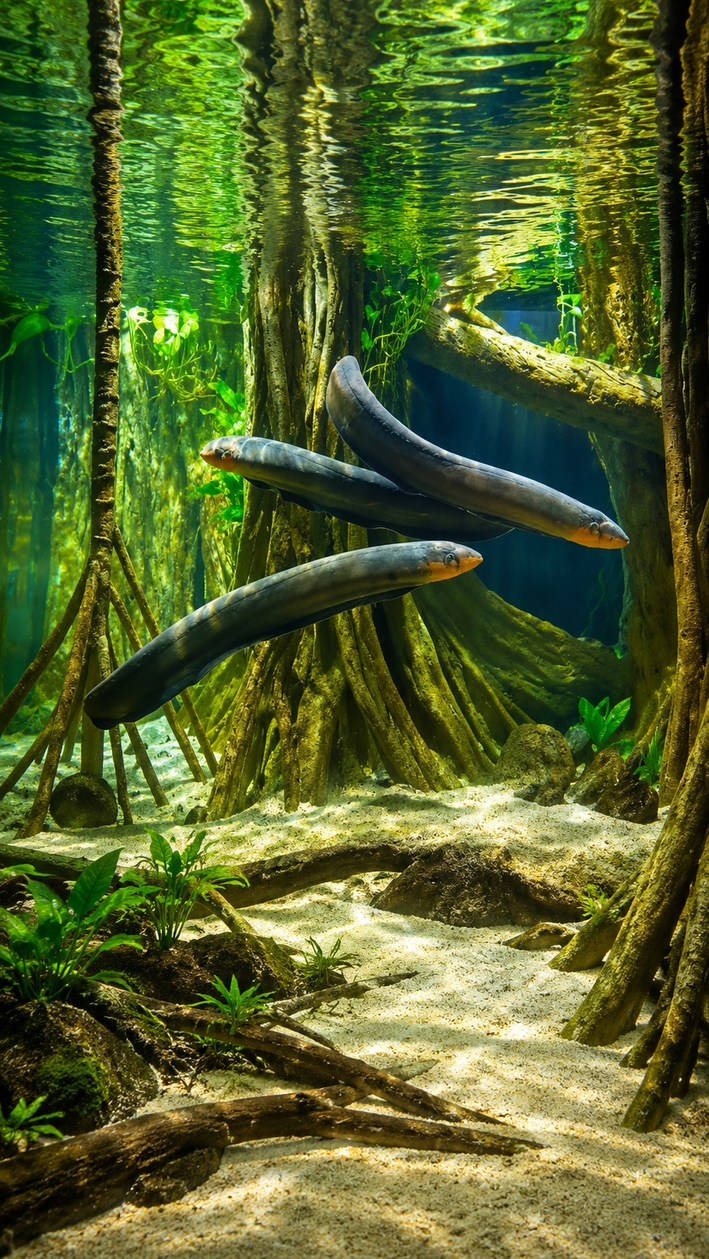
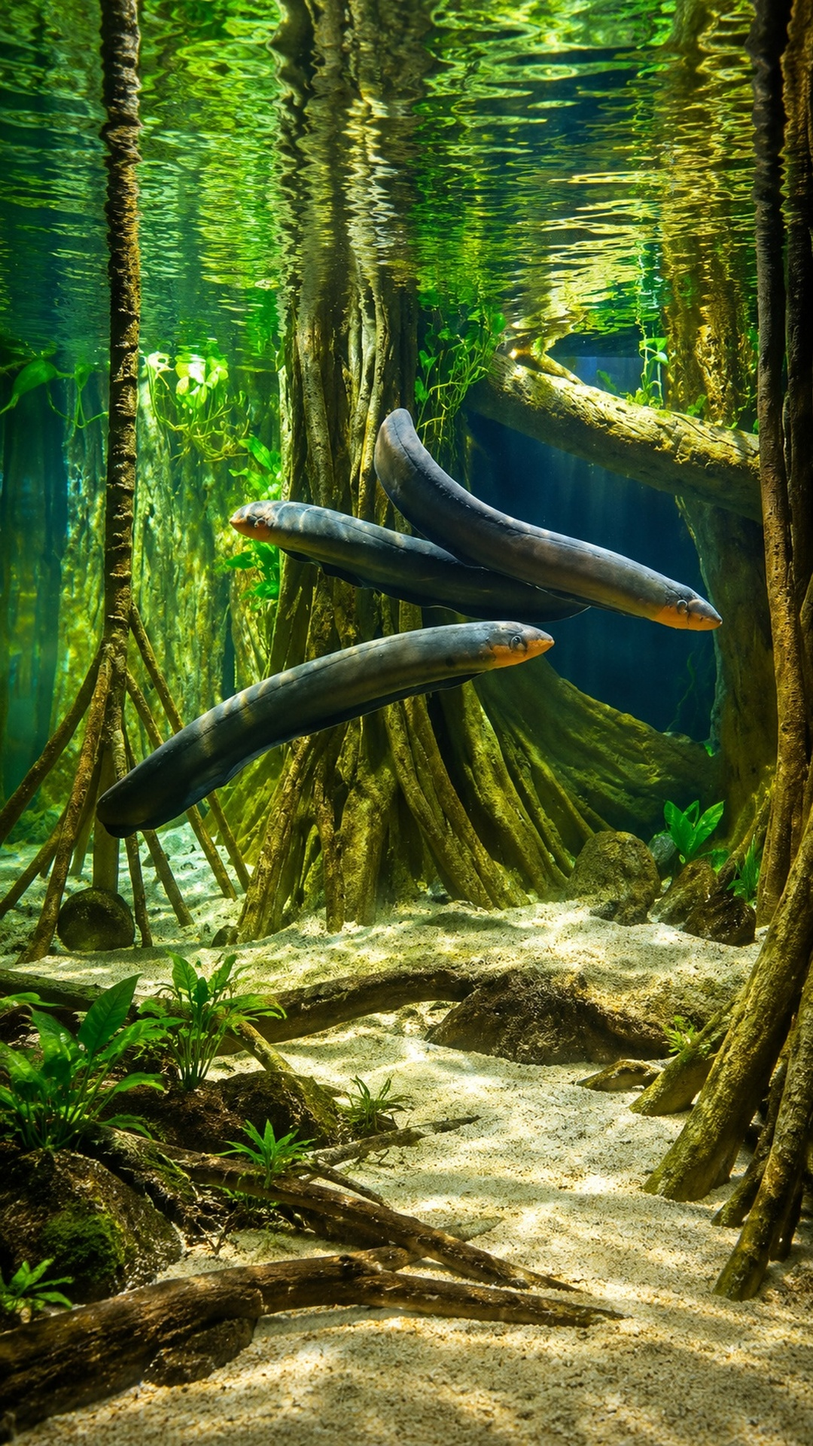
s035: ナレーション収録・動画ビルドを完了
- 画像5枚を1080x1920にcover crop
- VOICEVOX(青山龍星)でナレーション収録
- 発話区間11個/文節10個の不一致（「5〜7回も」と「繰り返されていました」の
  間にVOICEVOXが内部ポーズを入れていた）を実音声で確認し、該当区間を
  手動でマージしてSRTを作り直した
- build.pyでSRT実測タイムラインから各カットの尺を算出し、30.10秒の
  動画を生成

diff --git a/assets/s035/build.py b/assets/s035/build.py
@@ -1,0 +1,96 @@
+#!/usr/bin/env python3
+"""s035 の動画を組み立てる。
+
+  python3 build.py            # 出力: s035.mp4（1080x1920 / 30fps / 音声なし）
+
+【重要】各カットの秒数は、この場で決め打ちしない。
+`s035-narration.srt`（実測した発話区間から作ったもの。11区間検出されたが
+文節は10個だったため、1時間の間に5〜7回も／繰り返されていました、の間の
+VOICEVOXの内部ポーズを手動でマージして作り直した）から逆算する。
+理由は s020/build.py の冒頭コメント、および assets/s020/README.md を参照。
+
+s035は静止画5枚（f1〜f5.jpg）の構成。Pexelsにヴォルタデンキウナギ
+(Electrophorus)の実写素材が見つからなかったため、ユーザー提供の水槽内
+デンキウナギ写真5枚を使用（出どころ未確認）。
+"""
+import re, subprocess, pathlib, imageio_ffmpeg
+
+HERE = pathlib.Path(__file__).parent
+FF   = imageio_ffmpeg.get_ffmpeg_exe()
+OW, OH, FPS = 1080, 1920, 30
+ENC  = "-c:v libx264 -preset medium -crf 20 -pix_fmt yuv420p -r 30 -an".split()
+
+# どの素材が、SRT の何枚目〜何枚目のカードに対応するか（1始まり・両端含む）。
+IMAGE_CARDS = [
+    ("f1.jpg", 1, 2,  "image"),  # ①デンキウナギは、仲間と協力して…狩ることがあります。
+    ("f2.jpg", 3, 4,  "image"),  # ②研究チームが、アマゾンの…72時間観察しました。
+    ("f3.jpg", 5, 6,  "image"),  # ③2〜10匹の小さなグループ…狩りをしていたのです。
+    ("f4.jpg", 7, 8,  "image"),  # ④この狩りは夜明けや夕方に…繰り返されていました。
+    ("f5.jpg", 9, 10, "image"),  # ⑤デンキウナギは、単独ではなく…生き物でした。
+]
+
+def srt_cards(path):
+    """SRT を [(開始秒, 終了秒), ...] のリストにする（1始まりの番号に対応）。"""
+    blocks = pathlib.Path(path).read_text(encoding="utf-8").strip().split("\n\n")
+    def ts(s):
+        hms, ms = s.split(",")
+        h, m, sec = hms.split(":")
+        return int(h)*3600 + int(m)*60 + int(sec) + int(ms)/1000
+    cards = []
+    for b in blocks:
+        m = re.search(r"(\d\d:\d\d:[\d,]+) --> (\d\d:\d\d:[\d,]+)", b)
+        cards.append((ts(m[1]), ts(m[2])))
+    return cards
+
+def cuts_from_srt(srt_path):
+    """IMAGE_CARDS と実測タイムラインから、各カットの (素材, 秒数, 種類) を出す。
+
+    カット境界は「前ブロック最後のカードの終了」と「次ブロック先頭カードの開始」の
+    中間点。最初は0秒から、最後はSRT全体の終了秒まで。
+    """
+    cards = srt_cards(srt_path)
+    bounds = [0.0]
+    for i in range(len(IMAGE_CARDS) - 1):
+        _, _, end_i, _   = IMAGE_CARDS[i]
+        _, start_j, _, _ = IMAGE_CARDS[i + 1]
+        prev_end   = cards[end_i - 1][1]
+        next_start = cards[start_j - 1][0]
+        bounds.append(round((prev_end + next_start) / 2, 3))
+    bounds.append(round(cards[-1][1], 3))
+
+    cuts = []
+    for i, (src, _, _, kind) in enumerate(IMAGE_CARDS):
+        dur = round(bounds[i + 1] - bounds[i], 3)
+        cuts.append((src, dur, kind))
+    return cuts, bounds
+
+CUTS, _BOUNDS = cuts_from_srt(HERE / "s035-narration.srt")
+
+def render_cut(src, dur, kind, out_path):
+    if kind == "video":
+        cmd = [FF, "-y", "-loglevel", "error", "-i", str(HERE / src),
+               "-vf", f"scale={OW}:{OH}:flags=lanczos", "-t", str(dur)]
+    else:
+        cmd = [FF, "-y", "-loglevel", "error", "-loop", "1", "-t", str(dur), "-i", str(HERE / src)]
+    subprocess.run(cmd + ENC + [str(out_path)], check=True)
+
+def main():
+    print("カット秒数（s035-narration.srt から実測で算出）")
+    for src, dur, kind in CUTS:
+        print(f"  {src:10}{dur:6.2f}s  ({kind})")
+    print(f"  合計 {sum(d for _, d, _ in CUTS):.2f}s\n")
+
+    segs = []
+    for i, (src, dur, kind) in enumerate(CUTS, 1):
+        seg = HERE / f"_seg{i}.mp4"
+        render_cut(src, dur, kind, seg)
+        segs.append(seg)
+
+    lst = HERE / "_segs.txt"
+    lst.write_text("".join(f"file '{s.name}'\n" for s in segs))
+    subprocess.run([FF, "-y", "-loglevel", "error", "-f", "concat", "-safe", "0",
+                    "-i", str(lst), "-c", "copy", str(HERE / "s035.mp4")], check=True)
+    print("s035.mp4")
+
+if __name__ == "__main__":
+    main()
